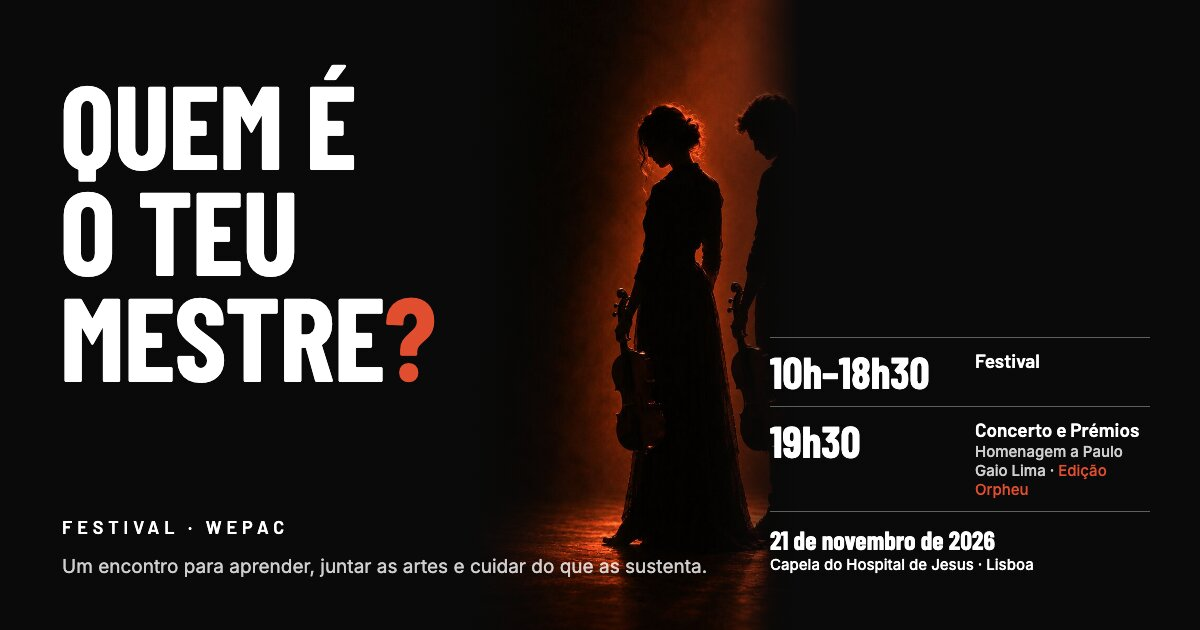
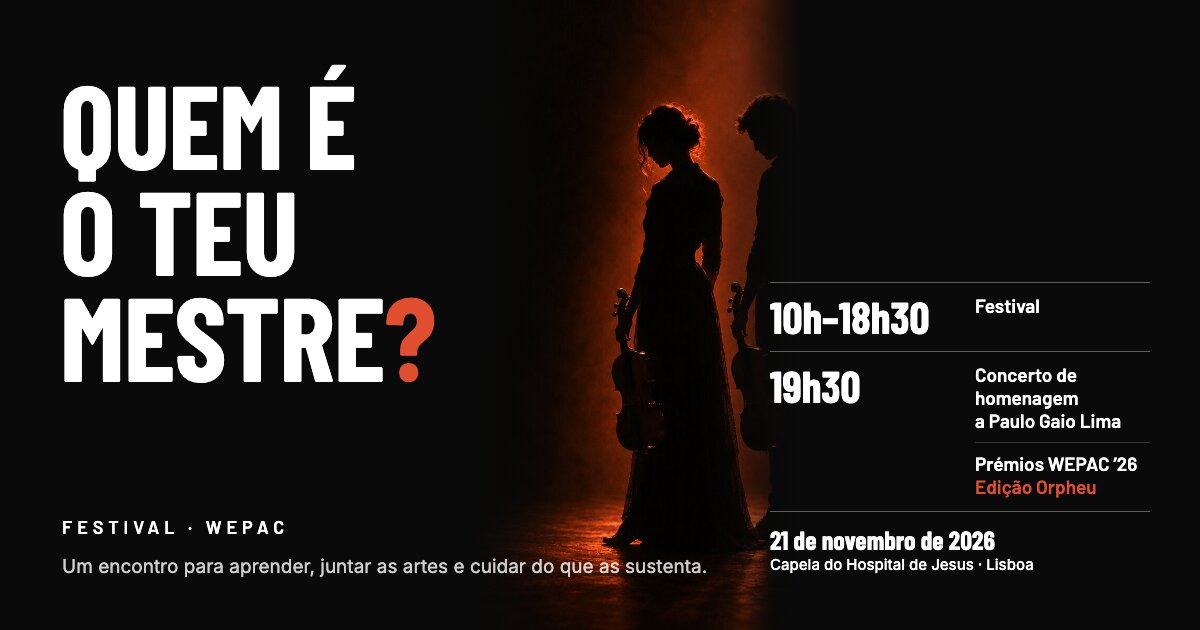
fix(bilheteira): show the prizes on their own line with Edição Orpheu
A schedule row without a time continues the previous hour, so the 19h30
slot lists the tribute concert and, below it, «Prémios WEPAC ’26» with
«Edição Orpheu» directly under them, as in the campaign artwork. The
share image follows the same structure.

Changed region(s): [[0.6167, 0.4825, 0.9558, 0.7841], [0.8017, 0.4825, 0.8633, 0.5127]]

diff --git a/src/app/[locale]/bilheteira/_components/event-hero.tsx b/src/app/[locale]/bilheteira/_components/event-hero.tsx
@@ -101,17 +101,22 @@ function CampaignHero({ theme, title, subtitle, brandName, facts, dateLine, plac
         <div>
           {theme.schedule.length > 0 ? (
             <dl className="border-b border-[var(--ev-line)]">
-              {theme.schedule.map((row) => (
-                <div key={row.time + row.label} className="grid grid-cols-[150px_1fr] gap-4 border-t border-[var(--ev-line)] py-3 sm:grid-cols-[175px_1fr]">
-                  <dt className={`${CONDENSED} whitespace-nowrap text-[34px] font-bold leading-none sm:text-[42px]`}>{row.time}</dt>
+              {theme.schedule.map((row, i) => (
+                <div
+                  key={`${i}-${row.label}`}
+                  className={`grid grid-cols-[150px_1fr] gap-4 py-3 sm:grid-cols-[175px_1fr] ${row.time ? "border-t border-[var(--ev-line)]" : "-mt-1 pt-0"}`}
+                >
+                  <dt className={`${CONDENSED} whitespace-nowrap text-[34px] font-bold leading-none sm:text-[42px]`}>
+                    {row.time || <span className="sr-only">{theme.schedule[i - 1]?.time}</span>}
+                  </dt>
                   <dd className="self-center">
                     <div className="font-barlow text-[18px] font-bold leading-tight">{row.label}</div>
-                    {row.detail && <div className="mt-0.5 text-[14px] text-[var(--ev-muted)]">{row.detail}</div>}
                     {row.highlight && (
-                      <div className="font-barlow text-[17px] font-bold leading-tight" style={{ color: "var(--ev-accent)" }}>
+                      <div className="font-barlow text-[18px] font-bold leading-tight" style={{ color: "var(--ev-accent)" }}>
                         {row.highlight}
                       </div>
                     )}
+                    {row.detail && <div className="mt-0.5 text-[14px] text-[var(--ev-muted)]">{row.detail}</div>}
                   </dd>
                 </div>
               ))}

diff --git a/src/lib/bilheteira/event-theme.ts b/src/lib/bilheteira/event-theme.ts
@@ -48,7 +48,9 @@ export function parseEventTheme(value: unknown): EventTheme {
           detail: str(r.detail, 200) ?? undefined,
           highlight: str(r.highlight, 120) ?? undefined,
         }))
-        .filter((r) => r.time && r.label)
+        // A row without time continues the previous slot (same hour, another
+        // item), so only the first row must carry one.
+        .filter((r, i) => r.label && (r.time || i > 0))
         .slice(0, 6)
     : [];
   return {
@@ -64,12 +66,13 @@ export function parseEventTheme(value: unknown): EventTheme {
 }
 
 // Admin text format for the hero schedule, one line per row:
-// «10h–18h30 | Festival | detalhe opcional | destaque opcional».
+// «10h–18h30 | Festival | detalhe opcional | destaque opcional». A row that
+// starts with «|» (no time) belongs to the same hour as the row above.
 export function scheduleFromText(text: string): ScheduleLine[] {
   return text
     .split("\n")
     .map((line) => line.split("|").map((p) => p.trim()))
-    .filter((parts) => parts.length >= 2 && parts[0] && parts[1])
+    .filter((parts, i) => parts.length >= 2 && parts[1] && (parts[0] || i > 0))
     .slice(0, 6)
     .map(([time, label, detail, highlight]) => ({
       time,

diff --git a/src/lib/bilheteira/__tests__/event-theme.test.ts b/src/lib/bilheteira/__tests__/event-theme.test.ts
@@ -25,6 +25,15 @@ describe("event theme", () => {
     expect(scheduleToText(lines)).toBe(text);
   });
 
+  it("lets a row without time continue the previous hour, never the first", () => {
+    expect(scheduleFromText("| Sem hora\n19h30 | Concerto\n| Prémios | | Edição Orpheu")).toEqual([
+      { time: "19h30", label: "Concerto", detail: undefined, highlight: undefined },
+      { time: "", label: "Prémios", detail: undefined, highlight: "Edição Orpheu" },
+    ]);
+    const parsed = parseEventTheme({ schedule: [{ time: "", label: "X" }, { time: "19h30", label: "Y" }] });
+    expect(parsed.schedule.map((r) => r.label)).toEqual(["Y"]);
+  });
+
   it("uses the accent for calls to action in dark mode", () => {
     const vars = themeVars(parseEventTheme({ mode: "dark", accent: "#E04E2F" })) as Record<string, string>;
     expect(vars["--ev-bg"]).toBe("#0A0A0A");

diff --git a/scripts/seed-festival-21-nov-2026.ts b/scripts/seed-festival-21-nov-2026.ts
@@ -240,12 +240,9 @@ async function main() {
       heroImage: "/images/eventos/quem-e-o-teu-mestre/hero-duo.webp",
       schedule: [
         { time: "10h–18h30", label: "Festival" },
-        {
-          time: "19h30",
-          label: "Concerto de homenagem a Paulo Gaio Lima",
-          detail: "e Prémios WEPAC ’26",
-          highlight: "Edição Orpheu",
-        },
+        { time: "19h30", label: "Concerto de homenagem a Paulo Gaio Lima" },
+        // Same hour: the prizes, with their edition name directly under them.
+        { time: "", label: "Prémios WEPAC ’26", highlight: "Edição Orpheu" },
       ],
     } as Prisma.InputJsonValue,
     program: [
